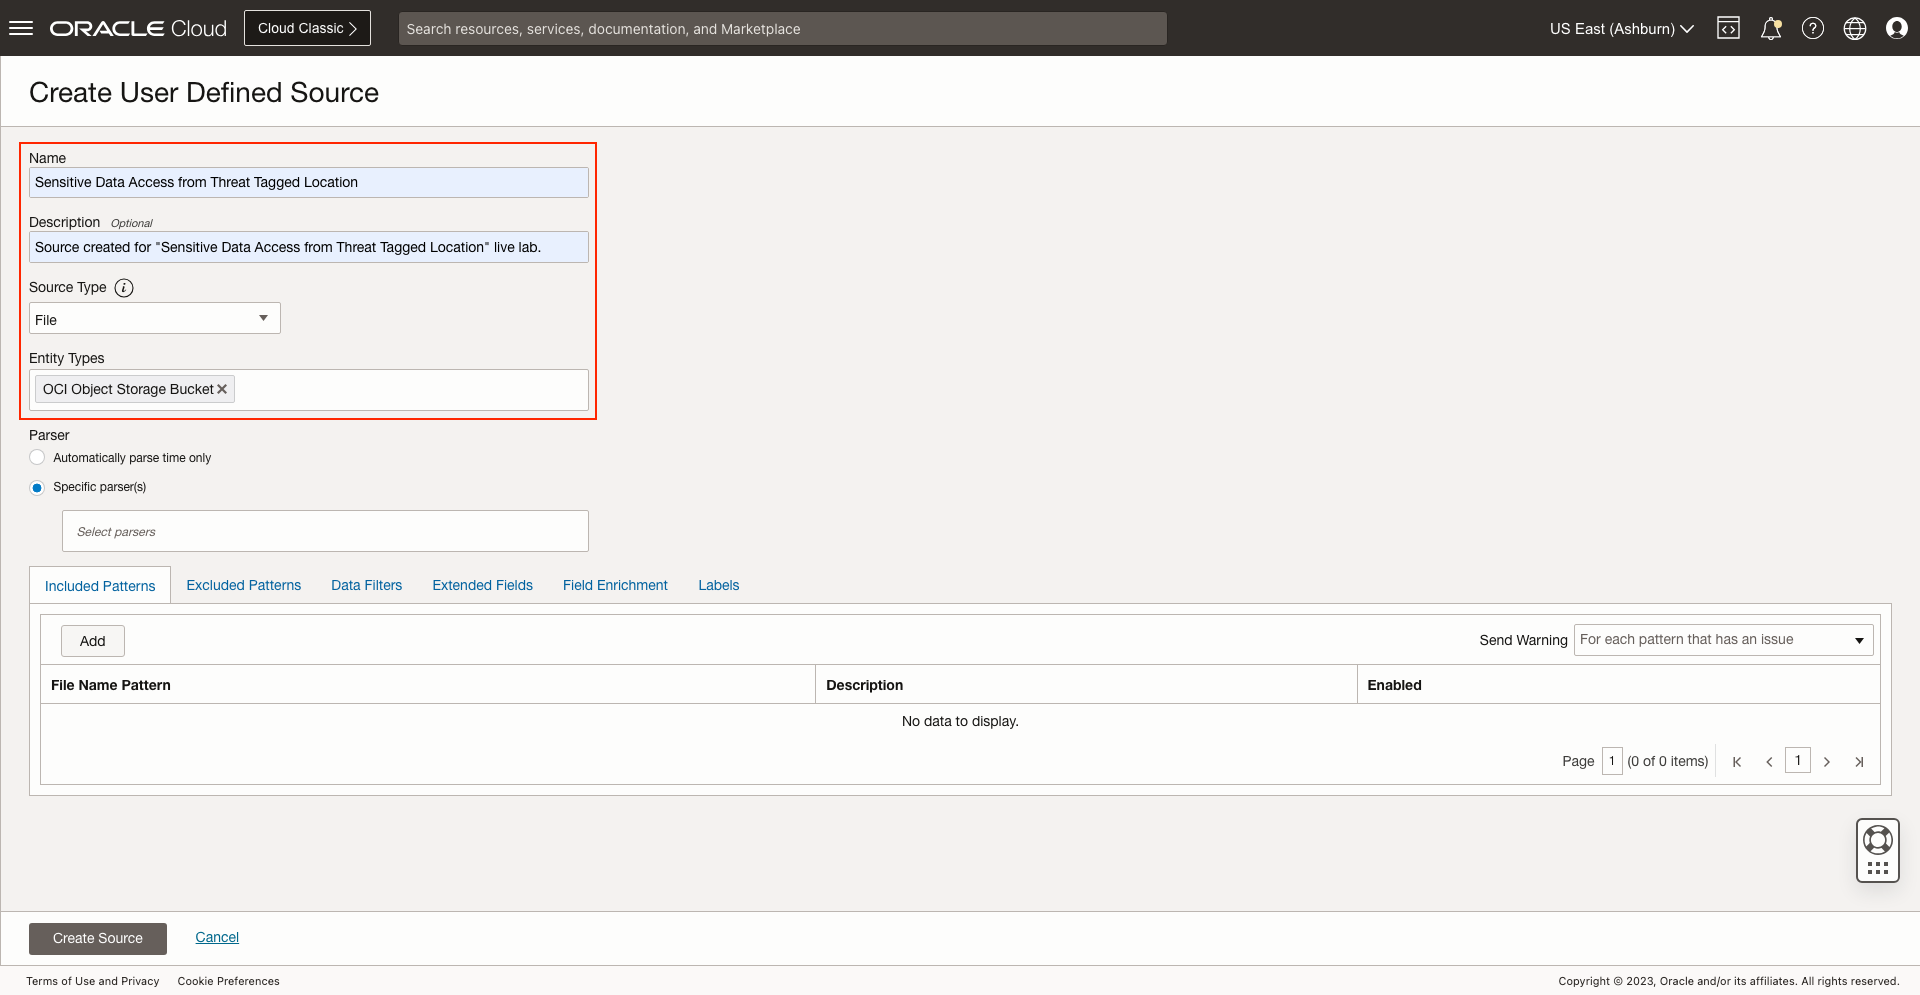
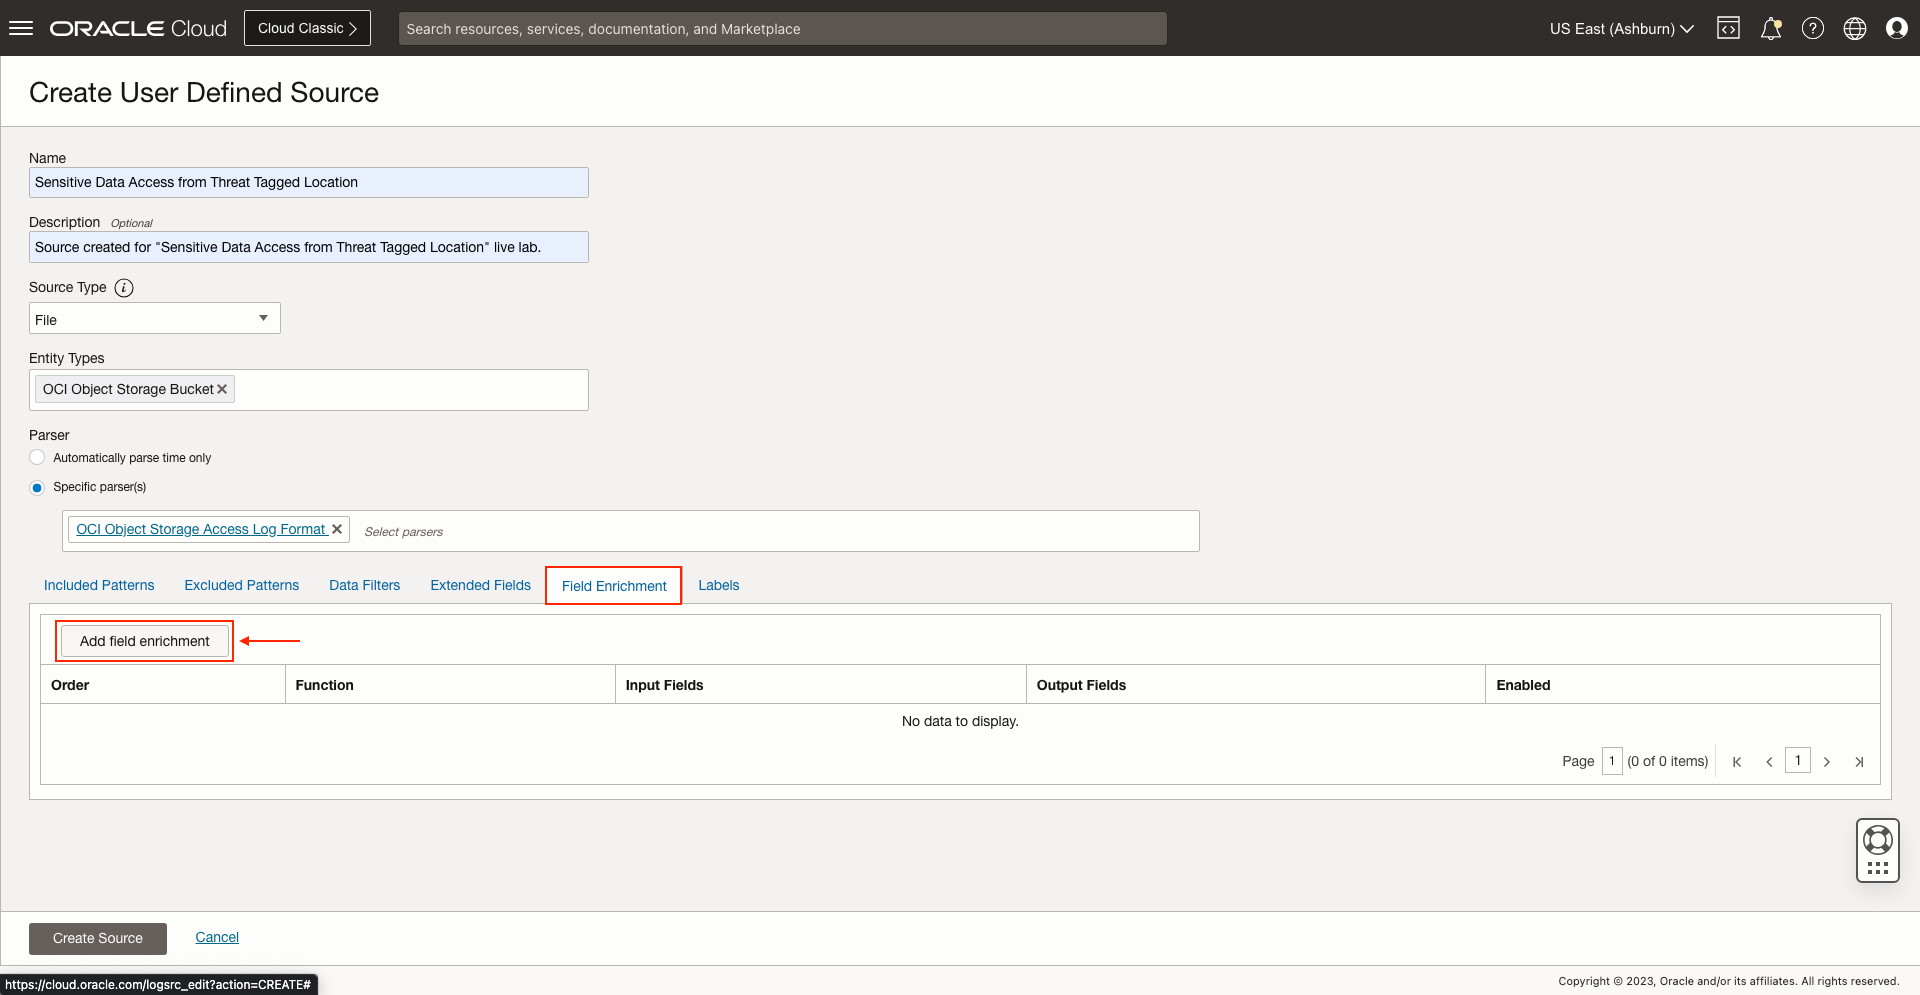
Lab 8 Sprint format

diff --git a/logging-analytics/alarms-detection-rules-la/threat-tagged-location/threat-tagged-location.md b/logging-analytics/alarms-detection-rules-la/threat-tagged-location/threat-tagged-location.md
@@ -1,183 +1,125 @@
-# Sensitive Data Access from Threat Tagged Location
+# How to create alert for sensitive data access from suspicious IPs?
 
-## Introduction
+Duration: 5 minutes
 
-In this lab, you'll learn how to create multi-conditional labels for creating more sophisticated ingest time detection rules based on Threat Intelligence Enrichment.
+## Create Source and add field enrichment
 
-Estimated Lab Time: 15 minutes
+1. Navigate to **Sources**.
 
+2. Click on **Create Source**.
 
-### Objectives
+3. Specify the **Name** and **Description (optional)**. Select **File** as **Source Type** and **OCI Object Storage Bucket** at **Entity Types**.
 
-In this lab, you will:
-* Extend/Customize Log Sources
-* Object Storage bucket or access to a system, web-access from a location tagged by TISS risky
-* Create alarms and verify
-
-## **Task 1:**  Navigate to Sources
-
-1. Click on the **Administration** option inside the drop-down menu to access to **Administration Overview**.
-   ![](./images/admin-access.png "UIdescription")
-
-2. Click on the option **Sources** inside **Resources** sidebar menu at the left.
-   ![](./images/sources-access.png "UIdescription")
-
-  Now you are in **Sources**.
-   ![](./images/sources-page.png "UIdescription")
-
-## **Task 2:**  Create Source and add field enrichment
-
-Logging Analytics provides automatic threat intelligence enrichment for your logs that can help identify public IP addresses which could have some level of threat associated with them. Learning about the possible threats early can help separate and mitigate them.
-
-To enable the threat intelligence enrichment feature, Geolocation Field is needed.
-
-1. Click on **Create Source**.
+4. Make sure the **Specific parser(s)** option is marked and select **OCI Object Storage Access Log Format**.
    ![](./images/source-create-01.png "UIdescription")
 
-2. Specify the **Name** and **Description (optional)**. Select **File** as **Source Type** and **OCI Object Storage Bucket** at **Entity Types**.
+5. Click on **Field Enrichment** and on **Add field enrichment**.
    ![](./images/source-create-02.png "UIdescription")
 
-3. Mark the **Specific parser(s)** option. Then, select **OCI Object Storage Access Log Format**.
+6. Select **Geolocation** in **Function**.
+
+7. Then select **Host IP Address (Client)** in **IP Address Field** and mark **Threat Intelligence enrichment**.
+
+8. Click on **Add field enrichment**.
    ![](./images/source-create-03.png "UIdescription")
 
-4. Click on **Field Enrichment** and on **Add field enrichment**.
-   ![](./images/source-create-04.png "UIdescription")
-
-5. Select **Geolocation** in **Function**. Then, Select **Host IP Address (Client)** in **IP Address Field** and mark **Threat Intelligence enrichment**. Finally, click on **Add field enrichment**.
-   ![](./images/source-create-05.png "UIdescription")
-
-  The field enrichment is added successfully.
-   ![](./images/source-create-06.png "UIdescription")
-
-## **Task 3:**  Save User Defined Source
-
-1. Click on **Create Source**.
+9. Finally click on **Create Source**.
    ![](./images/source-save-01.png "UIdescription")
 
-  The source is created successfully.
-   ![](./images/source-save-02.png "UIdescription")
+## Create Ingest time detection rule
 
-## **Task 4:**  Navigate to Detection Rules
+1. Navigate to **Detection Rules**.
 
-1. Click on the option **Detection Rules** inside **Resources** sidebar menu at the left.
-   ![](./images/detection-rules-access.png "UIdescription")
+2. Click on **Create rule**.
 
-  Now you are in **Detection Rules**.
-   ![](./images/detection-rules.png "UIdescription")
+3. Click on **Ingest time detection rule**.
 
-## **Task 5:**  Create Ingest time detection rule
-
-1. Click on **Create rule** inside **Detection Rules** page.
+4. Specify the **Rule name**. Select **Sensitive Data Access from Threat Tagged Location** for **Label** and **Sensitive Data Access from Threat Tagged Location** for **Filter by log source**.
    ![](./images/detection-rules-create-01.png "UIdescription")
 
-2. Click on **Ingest time detection rule**.
+5. Select **Monitoring** for **Target Service**. Specify a **Metric Compartment**, **Metric Namespace** and **Metric Name**.
    ![](./images/detection-rules-create-02.png "UIdescription")
 
-3. Specify the **Rule name**. Select **Sensitive Data Access from Threat Tagged Location** for **Label** and **Sensitive Data Access from Threat Tagged Location** for **Filter by log source**.
-   ![](./images/detection-rules-create-03.png "UIdescription")
+6. Click on **Create detection rule**.
 
-4. Select **Monitoring** for **Target Service**. Specify a **Metric Compartment**, **Metric Namespace** and **Metric Name**. Click on **Create detection rule**.
-   ![](./images/detection-rules-create-04.png "UIdescription")
-
-  The ingest time detection rule is saved successfully.
-   ![](./images/detection-rules-create-05.png "UIdescription")
-
-## **Task 6:**  Create alarm
+## Create alarm
 
 1. Click on **Sensitive Data Access from Threat Tagged Location** which is the **Detection Rule** we created.
    ![](./images/create-alarm-01.png "UIdescription")
 
 2. Click on **Create Alarm**.
-   ![](./images/create-alarm-02.png "UIdescription")
 
 3. Specify an **Alarm name** and **Alarm body (optional)**. Set **Critical** for **Alarm severity**.
-   ![](./images/create-alarm-03.png "UIdescription")
 
-4. Inside **Destination** click on **Create a topic**.
-   ![](./images/create-alarm-04.png "UIdescription")
+4. Scroll down to **Destination** and click on **Create a topic**.
+   ![](./images/create-alarm-02.png "UIdescription")
 
-5. Specify a **Topic name** and **Topic description (optional)**. Select **Email** as **Subscription protocol** and specify a **Subscription Email**. Click on **Create topic and subscription**.
-   ![](./images/create-alarm-05.png "UIdescription")
+5. Specify a **Topic name** and **Topic description (optional)**. Select **Email** as **Subscription protocol** and specify a **Subscription Email**.
 
-6. Click on **Save alarm**.
-   ![](./images/create-alarm-06.png "UIdescription")
+6. Then click on **Create topic and subscription**.
 
-   The alarm is saved successfully.
-   ![](./images/create-alarm-07.png "UIdescription")
+7. Click on **Save alarm**.
 
-## **Task 7:**  Navigate to Uploads
+## Upload logs file
 
-1. Click on the option **Uploads** inside **Resources** sidebar menu at the left.
-   ![](./images/uploads-access.png "UIdescription")
+1. Navigate to **Uploads**.
 
-  Now you are in **Uploads**.
-   ![](./images/uploads-page.png "UIdescription")
+2. Click on **Upload Files**.
 
-## **Task 8:**  Upload logs file
+3. Specify an **Upload Name** and **Log Group Compartment**.
 
-1. Click on **Upload Files**.
+4. Select a **Log Group** or create a new one.
+
+5. If you decided to create a **Log Group** specify a **Name** and **Description (optional)** and click on **Create**.
+
+6. Download sample logs file for [Log Sample](./files/threat-tagged-location-logs.log)
+
+7. Tweak the logs' date so it is less than 1 hour before current UTC time.
    ![](./images/upload-logs-01.png "UIdescription")
 
-2. Specify an **Upload Name** and **Log Group Compartment**. Select a **Log Group** or create a new one.
+8. Click on **Select Files** and select the **threat-tagged-location-logs.log** file.
    ![](./images/upload-logs-02.png "UIdescription")
 
-3. Download sample logs file for [Log Sample](./files/threat-tagged-location-logs.log)</br>
-   Tweak the file **threat-tagged-location-logs** so the date of the log is less than 1 hour before current UTC time.
-   ![](./images/modify-logs.png "UIdescription")
+9. Click on **Next**.
 
-4. Click on **Select Files** and select the **threat-tagged-location-logs.log** file.
+10. Then click on **Set Properties**.
+
+11. At **Source**, select **Copy of OCI Object Storage Access Logs** which is the source we created previously and click on **Save Changes**.
    ![](./images/upload-logs-03.png "UIdescription")
-   ![](./images/upload-logs-04.png "UIdescription")
 
-5. Click on **Next**.
-   ![](./images/upload-logs-05.png "UIdescription")
+12. Click on **Next**.
 
-6. Click on **Set Properties**.
-   ![](./images/upload-logs-06.png "UIdescription")
+13. Then click on **Upload**.
 
-7. At **Source**, select **Copy of OCI Object Storage Access Logs** which is the source we created previously. Click on **Save Changes**.
-   ![](./images/upload-logs-07.png "UIdescription")
+14. When the **Submission Status** is **Success**, click on **Close**.
 
-8. Click on **Next**.
-   ![](./images/upload-logs-08.png "UIdescription")
+## See Detection Rules and Alarms results
 
-9. Click on **Upload**.
-   ![](./images/upload-logs-09.png "UIdescription")
+1. Navigate to **Detection Rules**.
 
-10. When the **Submission Status** is **Success**, click on **Close**.
-   ![](./images/upload-logs-10.png "UIdescription")
-
-   The logs file is uploaded successfully.
-   ![](./images/upload-logs-11.png "UIdescription")
-
-## **Task 9:**  See Detection Rules and Alarms results
-
-1. Navigate to Detection rules **(see Task 4)** and click on **Sensitive Data Access from Threat Tagged Location** which is the **Detection Rule** we created.
+2. Click on **Sensitive Data Access from Threat Tagged Location** which is the **Detection Rule** we created.
    ![](./images/results-01.png "UIdescription")
 
-2. At **Results** we can see there has been a **Sensitive Data Access from Threat Tagged Location**.
+3. At **Results** we can see there has been a **Sensitive Data Access from Threat Tagged Location**.
    ![](./images/results-02.png "UIdescription")
 
-3. Click on **View In Metric Explorer**.
+4. Click on **View In Metric Explorer**.
+
+5. We can see the same result in the **Metrics Explorer** view.
    ![](./images/results-03.png "UIdescription")
 
-4. We can see the same result in the **Metrics Explorer** view.
+6. Click on the **Navigation menu**.
    ![](./images/results-04.png "UIdescription")
 
-5. Click on the **Navigation menu**.
+7. Click on **Observability and Management** and then click on **Alarm Definitions** inside **Monitoring**.
    ![](./images/results-05.png "UIdescription")
 
-6. Click on **Observability and Management**. Then, click on **Alarm Definitions** inside **Monitoring**.
+8. Click on **Sensitive Data Access from Threat Tagged Location**.
    ![](./images/results-06.png "UIdescription")
 
-7. Click on **Sensitive Data Access from Threat Tagged Location**.
-   ![](./images/results-07.png "UIdescription")
-
-8. We can see the alarm is **Firing**.
-   ![](./images/results-08.png "UIdescription")
-
+9. We can see the alarm is **Firing**.
 
 ## Acknowledgements
 * **Author** - Oswaldo Osuna, Logging Analytics Development Team
 * **Contributors** -  Kumar Varun, Logging Analytics Product Management - Kiran Palukuri, Logging Analytics Product Management - Vikram Reddy, Logging Analytics Development Team 
-* **Last Updated By/Date** - Oswaldo Osuna, Nov 3 2023
+* **Last Updated By/Date** - Oswaldo Osuna, Dec 4 2023
